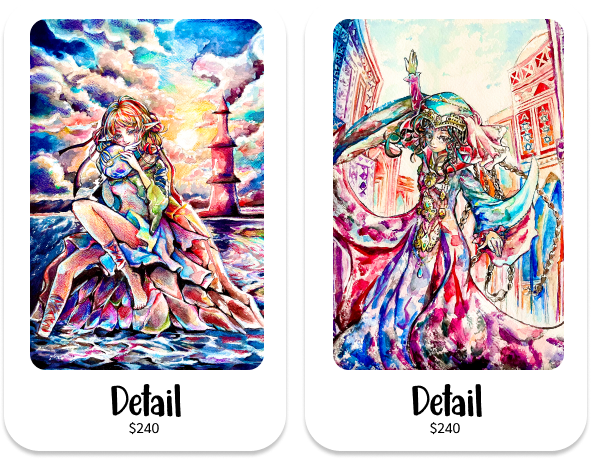
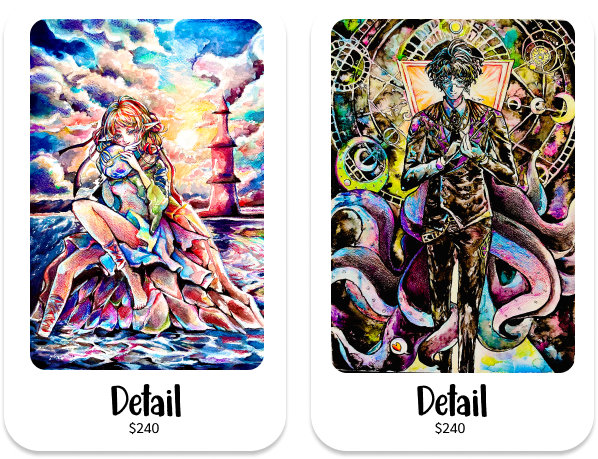
add new pic on detail commission

diff --git a/src/app/core/config/commission-example.config.ts b/src/app/core/config/commission-example.config.ts
@@ -1001,6 +1001,23 @@ export const commissionExampleConfig: GalleryRooms = {
   ],
   detailPortrait1: [
     {
+      picUrl: '/assets/images/commission/detail/schneider_rin_linin.webp',
+      frameStyle: 'white-double-frame',
+      content: {
+        title: 'Schneider-Orion: Fan art',
+        title2: 'by Rin Linin',
+        subTitle: 'watercolor',
+        description: 'Since I already draw baabel and dacapo from Orion, so I also draw Schneider from the same project too. This time I draw the fanart on A3 with more detail.',
+      },
+      previewPic: {
+        width: 'inherit',
+        height: 'inherit',
+        disabled: true
+      }
+    },
+  ],
+  detailPortrait2: [
+    {
       picUrl: '/assets/images/commission/detail/remade_2024_rin_linin.webp',
       frameStyle: 'black-frame',
       content: {
@@ -1017,7 +1034,7 @@ export const commissionExampleConfig: GalleryRooms = {
     },
     {
       picUrl: '/assets/images/commission/detail/uzbekistan_rin_linin.webp',
-      frameStyle: 'black-frame',
+      frameStyle: 'white-frame',
       content: {
         title: 'Uzbekistan Girl',
         title2: 'by Rin Linin',

diff --git a/src/app/commission/detail-commission-example/detail-commission-example.component.html b/src/app/commission/detail-commission-example/detail-commission-example.component.html
@@ -3,8 +3,9 @@
     <div class="section-sub-topic section-color pt-5 mb-5">
       {{ 'COMMISSION.PORTRAIT' | translate}}
     </div>
-    <div class="limit-width mx-auto">
-      <app-gallery-room [galleryRoom]="detailPortrait1" [pattern]="'equal'"></app-gallery-room>
+    <app-gallery-room [galleryRoom]="detailPortrait1"></app-gallery-room>
+    <div class="limit-width mx-auto mt-5">
+      <app-gallery-room [galleryRoom]="detailPortrait2" [pattern]="'equal'"></app-gallery-room>
     </div>
   </div>
 </div>
@@ -12,7 +13,7 @@
     <div class="container-fluid container-lg">
       <div class="row after-reflect">
         <div class="col-12 col-md-6">
-          <img src="/assets/images/commission/detail/detail_portrait_commission.png" srcset="{{ '/assets/images/commission/detail/detail_portrait_commission.png' | imageSrcset }}"
+          <img src="/assets/images/commission/detail/detail_portrait_commission.png?v=1" srcset="{{ '/assets/images/commission/detail/detail_portrait_commission.png?v=1' | imageSrcset }}"
           class="w-100 mt-3"/>
         </div>
         <div class="col-12 col-md-6 text-center d-flex">

diff --git a/src/app/playground-room/vtuber-fan-art/vtuber-fan-art.component.ts b/src/app/playground-room/vtuber-fan-art/vtuber-fan-art.component.ts
@@ -30,6 +30,21 @@ export class VtuberFanArtComponent {
       }
     },
     {
+      picUrl: '/assets/images/playground/vtuber/schneider_vtuber_rin_linin.webp',
+      frameStyle: 'white-frame small',
+      content: {
+        title: 'Schneider-Orion: Fan art',
+        title2: 'by Rin Linin',
+        subTitle: 'watercolor',
+        description: 'Since I already draw baabel and dacapo from Orion, so I also draw Schneider from the same project too. This time I draw the fanart on A3 with more detail.',
+      },
+      previewPic: {
+        width: 'inherit',
+        height: 'inherit',
+        disabled: true
+      }
+    },
+    {
       picUrl: '/assets/images/playground/vtuber/baabel_vtuber_rin_linin.webp',
       frameStyle: 'white-frame small',
       content: {
@@ -62,6 +77,5 @@ export class VtuberFanArtComponent {
         disabled: true
       }
     },
-  ]
-
+  ];
 }

diff --git a/src/app/commission/detail-commission-example/detail-commission-example.component.ts b/src/app/commission/detail-commission-example/detail-commission-example.component.ts
@@ -15,5 +15,6 @@ import { GalleryRoomComponent } from '../../shared/gallery-room/gallery-room.com
 })
 export class DetailCommissionExampleComponent {
   detailPortrait1 = commissionExampleConfig.detailPortrait1;
+  detailPortrait2 = commissionExampleConfig.detailPortrait2;
   detailWidescreen = commissionExampleConfig.detailWidescreen;
 }
